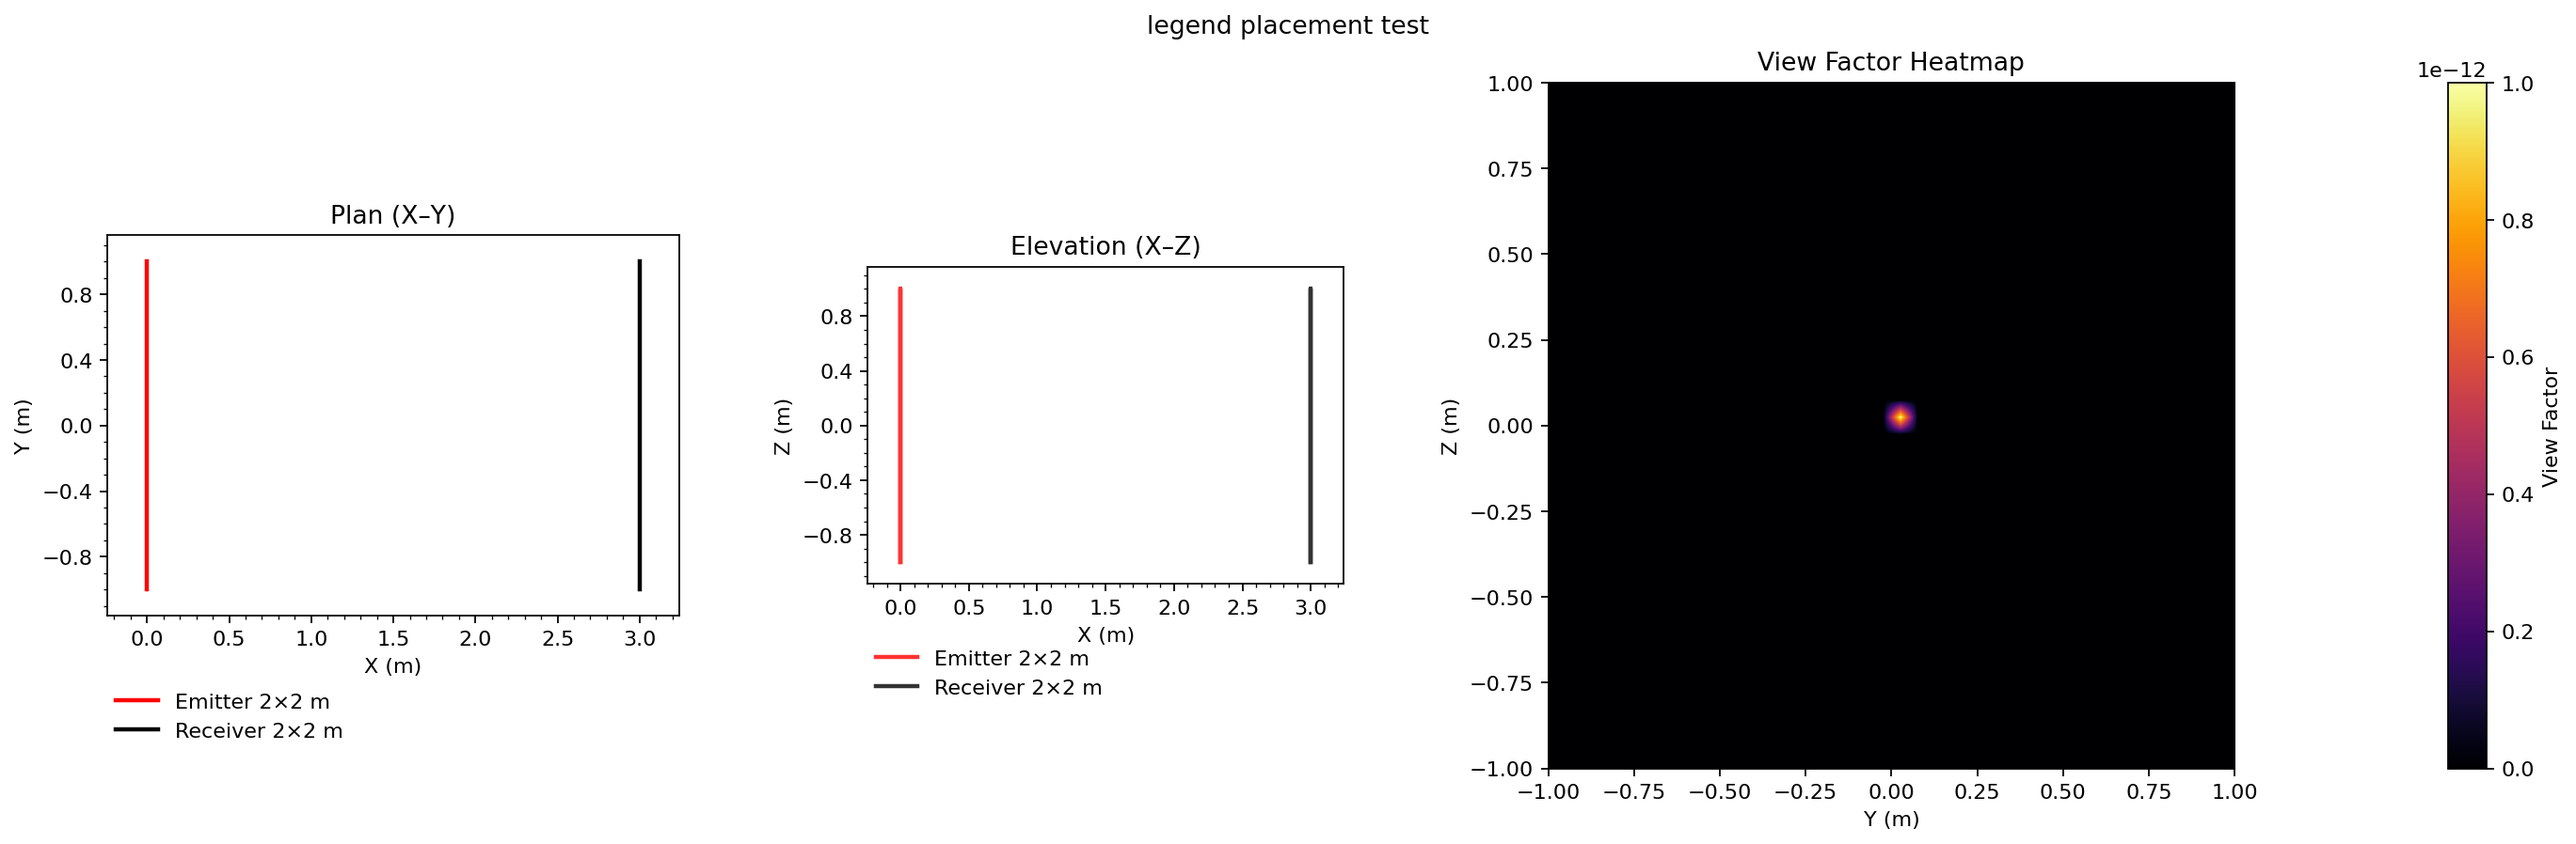
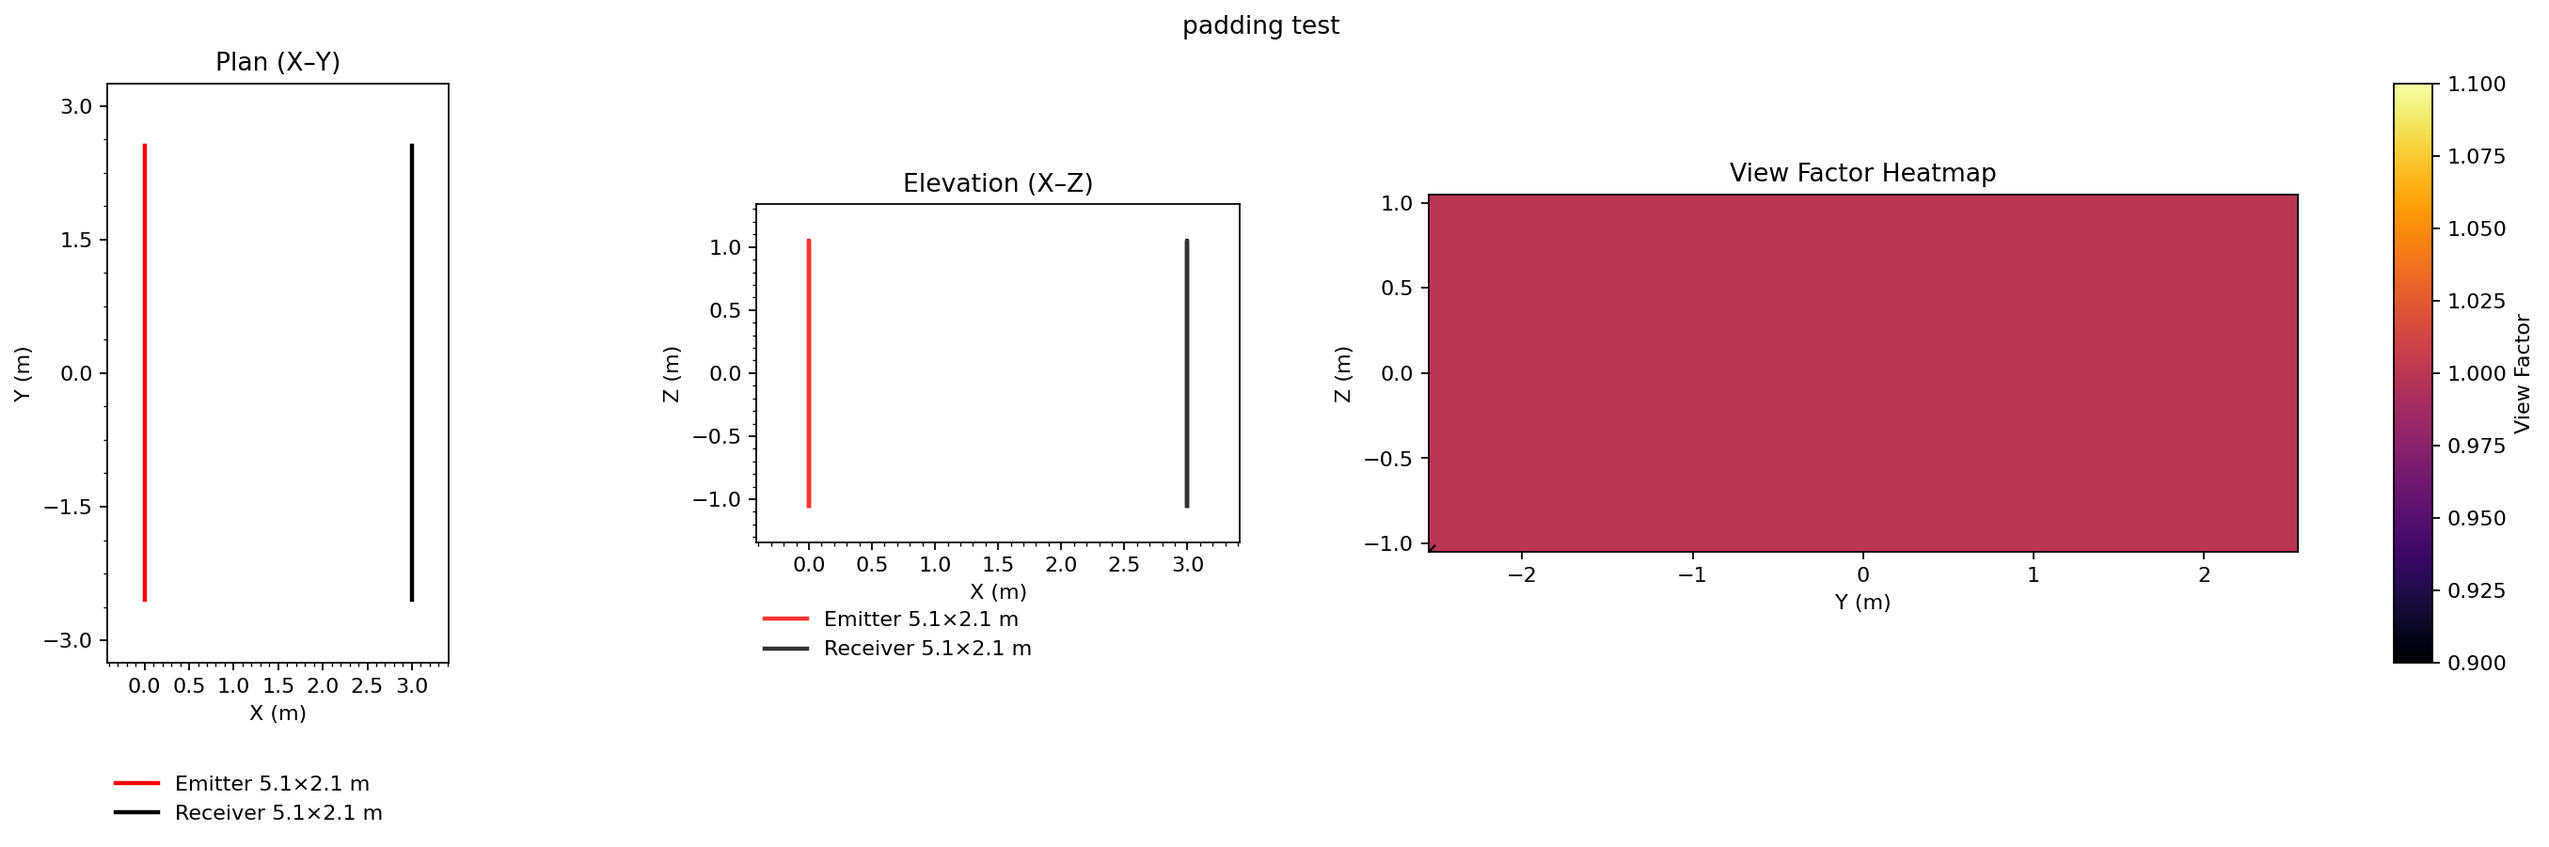
feat(plots): add 5% symmetric padding to XY/XZ axes after limits (true scale preserved); add unit test

diff --git a/tests/test_padding_xy_xz_true_scale.py b/tests/test_padding_xy_xz_true_scale.py
@@ -1,0 +1,67 @@
+import numpy as np
+import matplotlib
+matplotlib.use("Agg")
+import matplotlib.pyplot as plt
+
+from src.viz.plots import plot_geometry_and_heatmap
+
+
+def _geom_rects(setback=3.0, w=5.1, h=2.1):
+    half_w = w * 0.5
+    half_h = h * 0.5
+    em = np.array([
+        [0.0, -half_w, -half_h],
+        [0.0,  half_w, -half_h],
+        [0.0,  half_w,  half_h],
+        [0.0, -half_w,  half_h],
+    ], float)
+    rc = em.copy(); rc[:, 0] = setback
+    def xy_from(c): return c[:, [0, 1]]
+    def xz_from(c): return c[:, [0, 2]]
+    return {
+        "xy": {"emitter": xy_from(em), "receiver": xy_from(rc)},
+        "corners3d": {"emitter": em, "receiver": rc},
+        "emitter": {"xy": xy_from(em), "xz": xz_from(em)},
+        "receiver": {"xy": xy_from(rc), "xz": xz_from(rc)},
+    }
+
+
+def test_xy_xz_have_padding_beyond_geometry():
+    geom = _geom_rects()
+    gy = np.linspace(-2.55, 2.55, 9)
+    gz = np.linspace(-1.05, 1.05, 9)
+    Y, Z = np.meshgrid(gy, gz, indexing="ij")
+    F = np.zeros_like(Y) + 1.0
+
+    fig, (ax_xy, ax_xz, ax_hm) = plot_geometry_and_heatmap(
+        result={"We": 5.1, "He": 2.1, "Wr": 5.1, "Hr": 2.1, "rotate_axis": "z", "rotate_target": "emitter", "angle_pivot": "toe", "angle": 0.0},
+        eval_mode="grid", method="adaptive", setback=3.0, out_png="ignore.png", return_fig=True,
+        vf_field=F, vf_grid={"y": gy, "z": gz}, adaptive_peak_yz=(0.0, 0.0), marker_mode="adaptive", title="padding test",
+        prefer_eval_field=True,
+    )
+
+    xs = np.concatenate([geom["emitter"]["xy"][:, 0], geom["receiver"]["xy"][:, 0]])
+    ys = np.concatenate([geom["emitter"]["xy"][:, 1], geom["receiver"]["xy"][:, 1]])
+    x_min, x_max = float(xs.min()), float(xs.max())
+    y_min, y_max = float(ys.min()), float(ys.max())
+    span_x = x_max - x_min
+    span_y = y_max - y_min
+
+    x0, x1 = ax_xy.get_xlim(); y0, y1 = ax_xy.get_ylim()
+    assert (x0 < x_min - 0.03 * span_x) and (x1 > x_max + 0.03 * span_x)
+    assert (y0 < y_min - 0.03 * span_y) and (y1 > y_max + 0.03 * span_y)
+
+    xz_xs = np.concatenate([geom["emitter"]["xz"][:, 0], geom["receiver"]["xz"][:, 0]])
+    xz_zs = np.concatenate([geom["emitter"]["xz"][:, 1], geom["receiver"]["xz"][:, 1]])
+    xx_min, xx_max = float(xz_xs.min()), float(xz_xs.max())
+    zz_min, zz_max = float(xz_zs.min()), float(xz_zs.max())
+    span_xx = xx_max - xx_min
+    span_zz = zz_max - zz_min
+
+    x0e, x1e = ax_xz.get_xlim(); z0e, z1e = ax_xz.get_ylim()
+    assert (x0e < xx_min - 0.03 * span_xx) and (x1e > xx_max + 0.03 * span_xx)
+    assert (z0e < zz_min - 0.03 * span_zz) and (z1e > zz_max + 0.03 * span_zz)
+
+    plt.close(fig)
+
+

diff --git a/src/viz/plots.py b/src/viz/plots.py
@@ -272,6 +272,26 @@ def plot_geometry_and_heatmap(*, result, eval_mode, method, setback, out_png, re
     except Exception:
         pass
 
+    # --- G3: 5% padding on XY & XZ axes (true scale preserved) ---
+    try:
+        import numpy as _np
+        def _pad_limits(_ax, frac: float = 0.05):
+            """Pad x/y limits symmetrically by a fraction of current span."""
+            x0, x1 = _ax.get_xlim()
+            if _np.isfinite([x0, x1]).all() and (x1 > x0):
+                sx = x1 - x0
+                px = sx * float(frac)
+                _ax.set_xlim(x0 - px, x1 + px)
+            y0, y1 = _ax.get_ylim()
+            if _np.isfinite([y0, y1]).all() and (y1 > y0):
+                sy = y1 - y0
+                py = sy * float(frac)
+                _ax.set_ylim(y0 - py, y1 + py)
+        _pad_limits(ax_xy, frac=0.05)
+        _pad_limits(ax_xz, frac=0.05)
+    except Exception:
+        pass
+
     # --- G2: legends below x-axis, outside the plots ---
     try:
         fig.set_constrained_layout(True)
